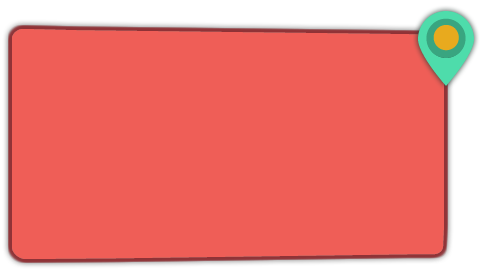
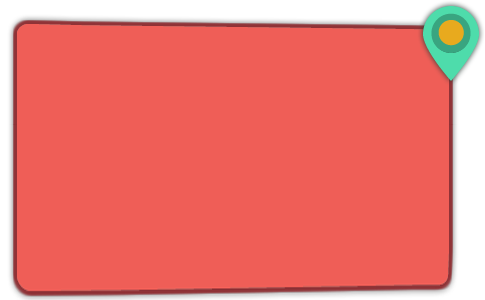
Update modal design (#17)

Changed region(s): [[0.0, 0.0, 1.0, 1.0]]

diff --git a/public/modules/core/css/region.css b/public/modules/core/css/region.css
@@ -37,7 +37,7 @@
 	background: url('/modules/core/img/app/modal.png');
 	padding: 39px 47px 20px 16px;
 	width: 485px;
-	height: 271px;
+	height: 300px;
 	border: none !important;
 	box-shadow: none !important;
 }
@@ -46,6 +46,10 @@
 	float: left;
 	width: 255px;
 	height: 200px;
+}
+
+.modal-text p {
+    margin: 0;
 }
 
 .subregion-pics{
